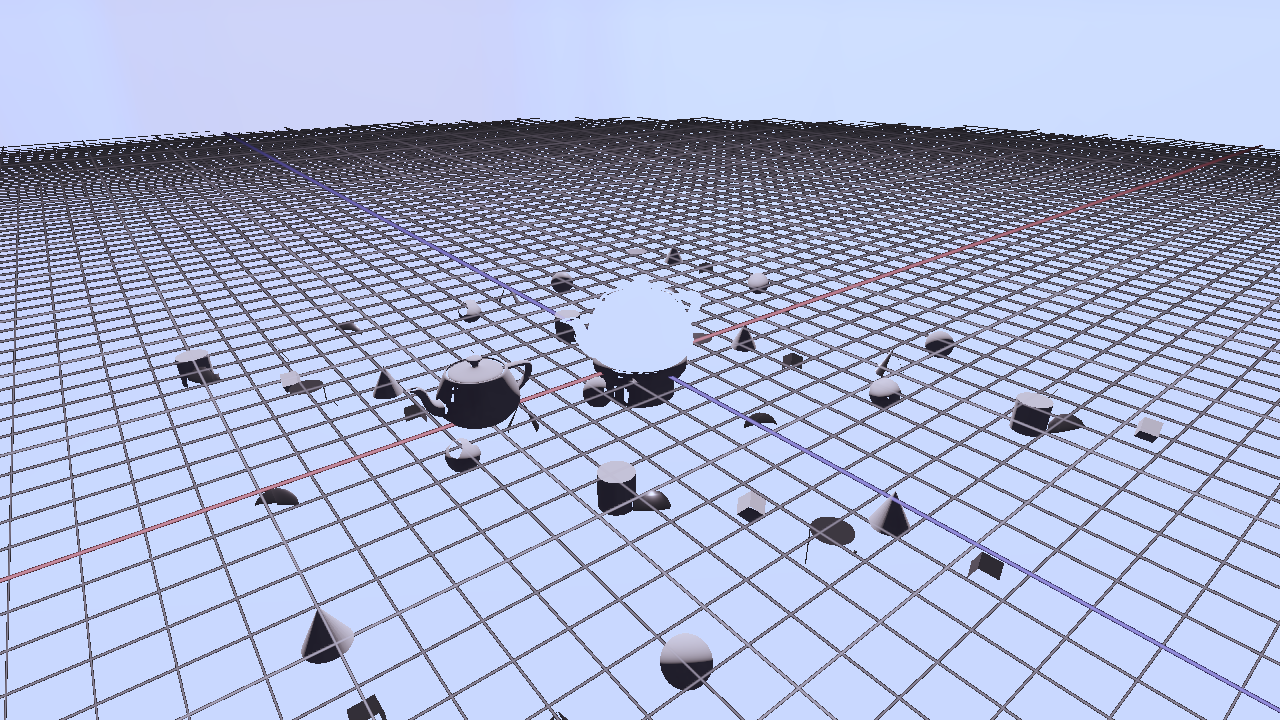
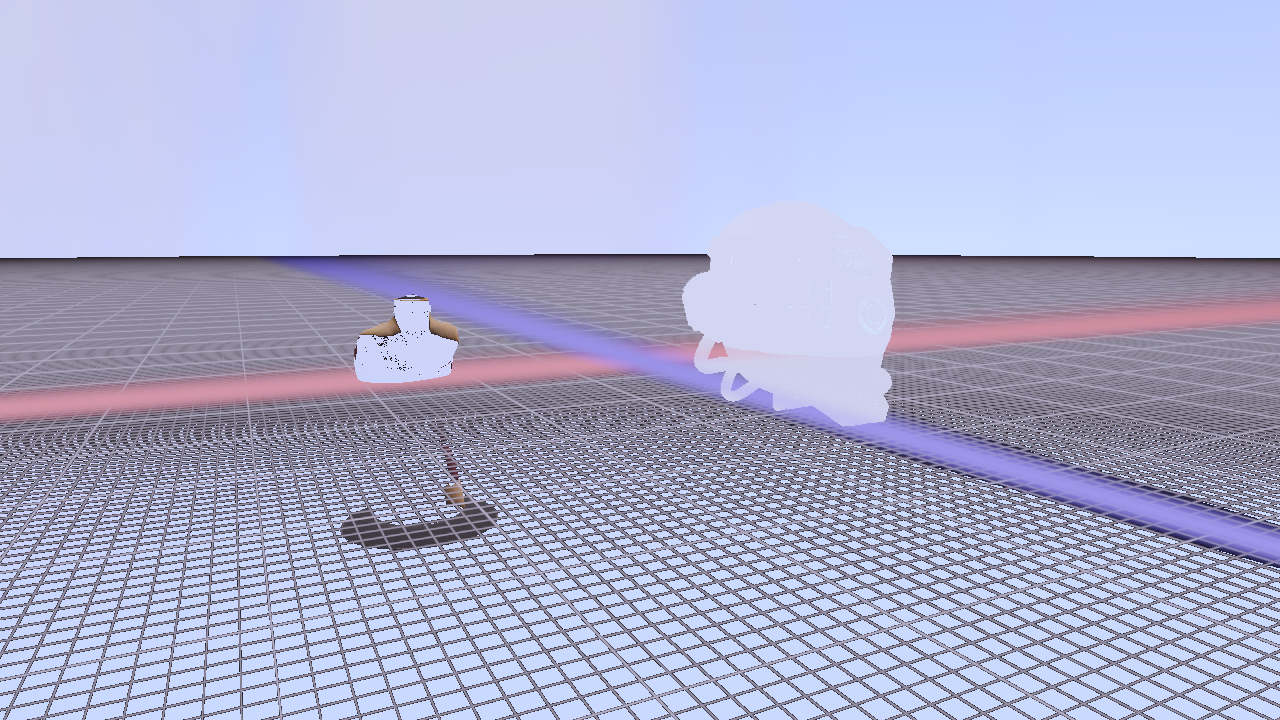
gfx: drop ReStir's orphaned compute root signature
ReStirRenderer::createShaders used to hand-roll a D3D12 root signature
for a compute dispatch that was never wired up (render() is a stub).
The signature wasn't bound anywhere, so it was just sitting in a
ComPtr leaking a D3D12 type into the subsystem's public surface.

Removed alongside the now-unnecessary <d3d12.h>/<wrl.h> includes from
restir.ixx + restir.cpp. createShaders is now an explicit stub
documenting that the eventual ReStir shaders will allocate through
gfx::createComputePipeline (no per-subsystem root sig needed under
the bindless model).

Combined with previous PSO migrations this leaves the engine with
zero ComPtr<ID3D12PipelineState> and zero ComPtr<ID3D12RootSignature>
in subsystem fields. Remaining D3D12 leaks per
notes/architecture.md: BLAS/TLAS (needs RT-AS gfx abstraction) and
ImGuiLayer's descriptor heap (gated on replacing imgui_impl_dx12).

60 tests still passing.

diff --git a/src/restir.cpp b/src/restir.cpp
@@ -1,19 +1,17 @@
 module;
 
-#include <d3d12.h>
-#include <wrl.h>
-#include <algorithm>
-#include "d3dx12_clean.h"
+#include <cstdint>
 
 module restir;
-
-using Microsoft::WRL::ComPtr;
 
 void ReStirRenderer::createResources(gfx::IDevice& dev, uint32_t width, uint32_t height)
 {
     devForDestroy = &dev;
     createTextures(dev, width, height);
-    createShaders(dev);
+    // createShaders() used to build a compute root signature, but ReStir's
+    // dispatch is still a stub — the root sig was orphaned. When the actual
+    // ReStir shaders land, they'll allocate through gfx::createComputePipeline
+    // and stop needing a hand-rolled D3D12 root sig in this subsystem.
 }
 
 void ReStirRenderer::resize(gfx::IDevice& dev, uint32_t width, uint32_t height)
@@ -71,28 +69,7 @@ void ReStirRenderer::createTextures(gfx::IDevice& dev, uint32_t width, uint32_t 
     }
 }
 
-void ReStirRenderer::createShaders(gfx::IDevice& dev)
+void ReStirRenderer::createShaders(gfx::IDevice& /*dev*/)
 {
-    auto* device = static_cast<ID3D12Device2*>(dev.nativeHandle());
-
-    CD3DX12_DESCRIPTOR_RANGE1 uavRange;
-    uavRange.Init(D3D12_DESCRIPTOR_RANGE_TYPE_UAV, 2, 0);
-    CD3DX12_DESCRIPTOR_RANGE1 srvRange;
-    srvRange.Init(D3D12_DESCRIPTOR_RANGE_TYPE_SRV, 6, 0);
-
-    CD3DX12_ROOT_PARAMETER1 params[5];
-    params[0].InitAsDescriptorTable(1, &uavRange);
-    params[1].InitAsDescriptorTable(1, &srvRange);
-    params[2].InitAsShaderResourceView(0, 1);  // TLAS at t0 space1
-    params[3].InitAsConstantBufferView(0, 0);  // PerFrame at b0
-    params[4].InitAsConstants(4, 1, 0);        // ReSTIR params at b1
-
-    CD3DX12_VERSIONED_ROOT_SIGNATURE_DESC rsd;
-    rsd.Init_1_1(5, params, 0, nullptr);
-
-    ComPtr<ID3DBlob> blob, err;
-    D3DX12SerializeVersionedRootSignature(&rsd, D3D_ROOT_SIGNATURE_VERSION_1_1, &blob, &err);
-    chkDX(device->CreateRootSignature(
-        0, blob->GetBufferPointer(), blob->GetBufferSize(), IID_PPV_ARGS(&rootSig)
-    ));
+    // Intentionally a stub now — see createResources().
 }

diff --git a/notes/architecture.md b/notes/architecture.md
@@ -114,7 +114,7 @@ The engine is being migrated off raw D3D12 onto a backend-agnostic `gfx::` API i
 - `ComPtr<ID3D12Resource>` for BLAS/TLAS (RT-only). Texture resources (`spriteTexture`, Scene glTF PBR maps, ReStir reservoirs) all migrated through `gfx::adoptTexture` / `createTexture`.
 - `ComPtr<ID3D12DescriptorHeap>` in `ImGuiLayer::srvHeap` (needed by `imgui_impl_dx12`). ReStir's UAV heap is gone.
 - `ComPtr<ID3D12PipelineState>` — **all graphics and compute PSOs in the engine are now `gfx::PipelineHandle`.** Bloom, SSAO, shadow, outline, object_picker, billboard, and the four ReStir compute PSO slots all use gfx.
-- `ComPtr<ID3D12RootSignature>` in ReStir (compute-specific descriptor layout, predates the bindless rewrite).
+- `ComPtr<ID3D12RootSignature>` — **also gone from subsystems.** ReStir's hand-rolled compute root signature was orphaned (its dispatch is still a stub) so it was removed; future ReStir shaders will go through `gfx::createComputePipeline` and inherit the bindless root sig.
 - `ID3D12CommandQueue*` in `ImGuiLayer::init` — required by `imgui_impl_dx12`.
 
 **Recent gfx-API extensions** to support these migrations: